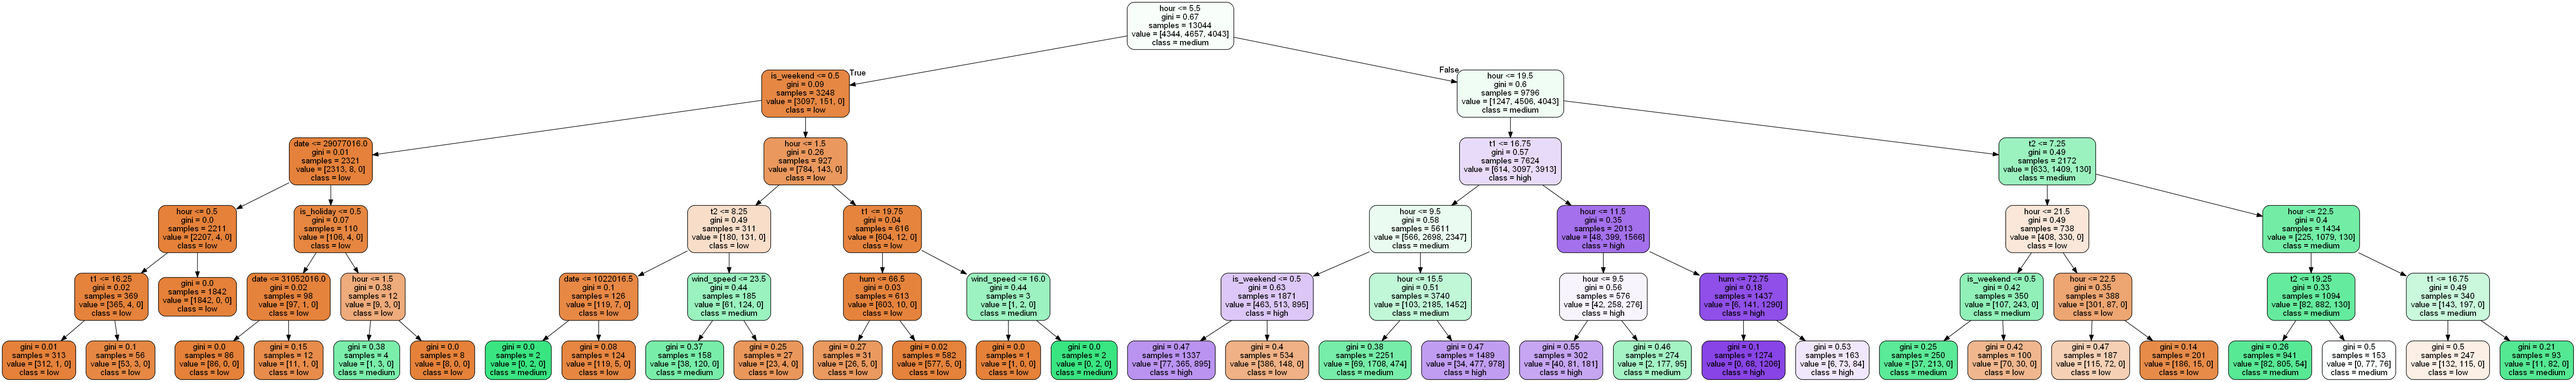
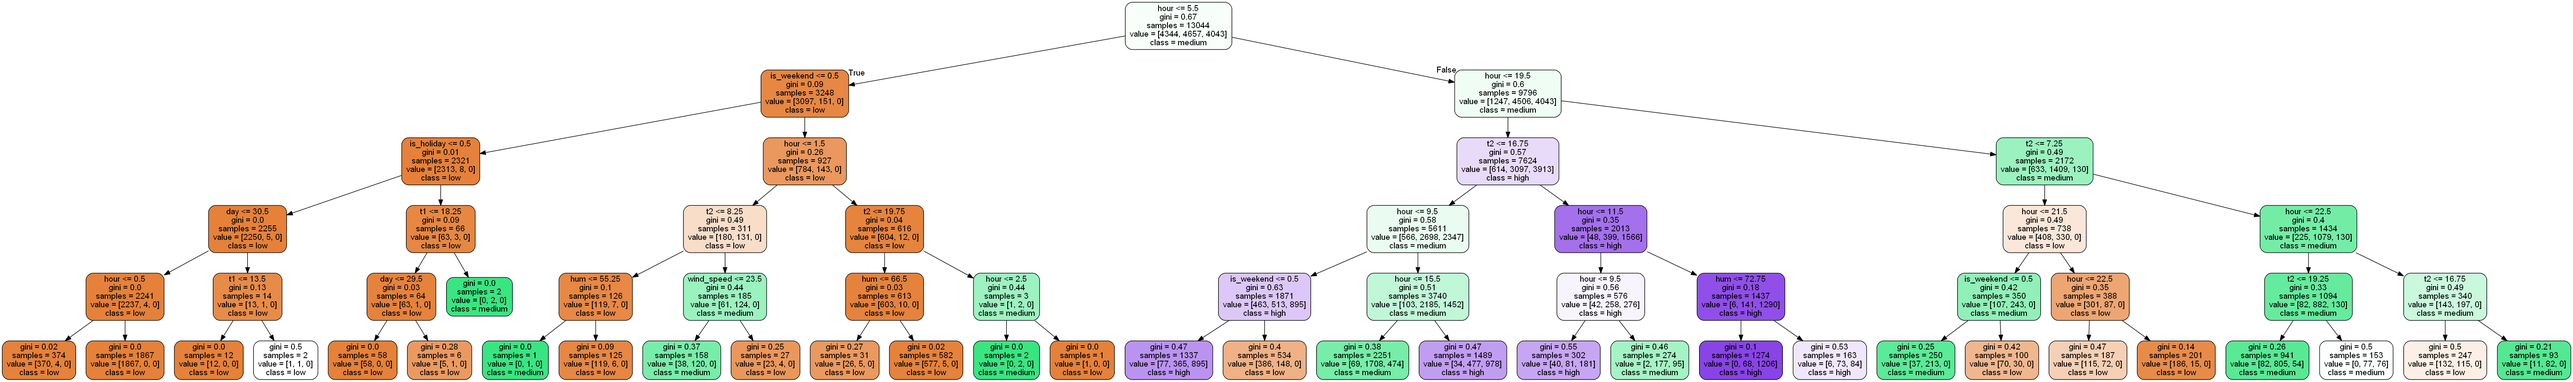
Changed the data preprocessing such that the features day and month are added

diff --git a/data_preprocessing.py b/data_preprocessing.py
@@ -5,7 +5,8 @@ import numpy as np
 import matplotlib.pyplot as plt
 from auxiliary_functions import get_x_any_y
 
-X_COLUMNS = ['t1', 't2', 'hum', 'wind_speed', 'weather_code', 'is_holiday', 'is_weekend', 'season', 'hour', 'month', 'day']
+X_COLUMNS = ['t1', 't2', 'hum', 'wind_speed', 'weather_code', 'is_holiday', 'is_weekend', 'season', 'hour', 'month',
+             'day']
 Y_COLUMN = 'cnt_categories'
 
 
@@ -26,18 +27,15 @@ def show_hist():
 
 
 def prepare_dataset():
+    # TODO consider using the function pd.set_index to set the column date as the index of the df
     df = pd.read_csv(r'london_merged.csv')
     df["cnt_categories"] = df["cnt"].apply(lambda x: 0 if x < 450 else (1 if x < 1400 else 2))
     df["hour"] = df["timestamp"].apply(lambda x: int(x[11:13]))
 
-    df["date"] = pd.to_datetime(df["timestamp"]).dt.date. \
-        apply(lambda x: int(x.strftime('%d%m%Y')))
-
-    df["month"] = pd.to_datetime(df["timestamp"]).dt.date.\
-        apply(lambda x: int(x.strftime('%m%Y')))
-
-    df["day"] = pd.to_datetime(df["timestamp"]).dt.date. \
-        apply(lambda x: int(x.strftime('%d%Y')))
+    df['timestamp'] = pd.to_datetime(df['timestamp']).dt.date
+    df["date"] = df['timestamp'].apply(lambda x: int(x.strftime('%d%m%Y')))
+    df["month"] = df['timestamp'].apply(lambda x: int(x.strftime('%m')))
+    df["day"] = df['timestamp'].apply(lambda x: int(x.strftime('%d')))
 
     df.drop(['timestamp', 'cnt'], axis=1, inplace=True)
     return df
@@ -97,7 +95,7 @@ def prepare_grouped_data(categorized=False, scale=True):
 
     if scale:
         train_set = df[df['date'].isin(train_days)]
-        train_set_x = train_set.drop(Y_COLUMN, axis=1)
+        train_set_x = train_set.drop([Y_COLUMN, 'date'], axis=1)
         scalar = StandardScaler()
         scalar.fit(train_set_x)
 
